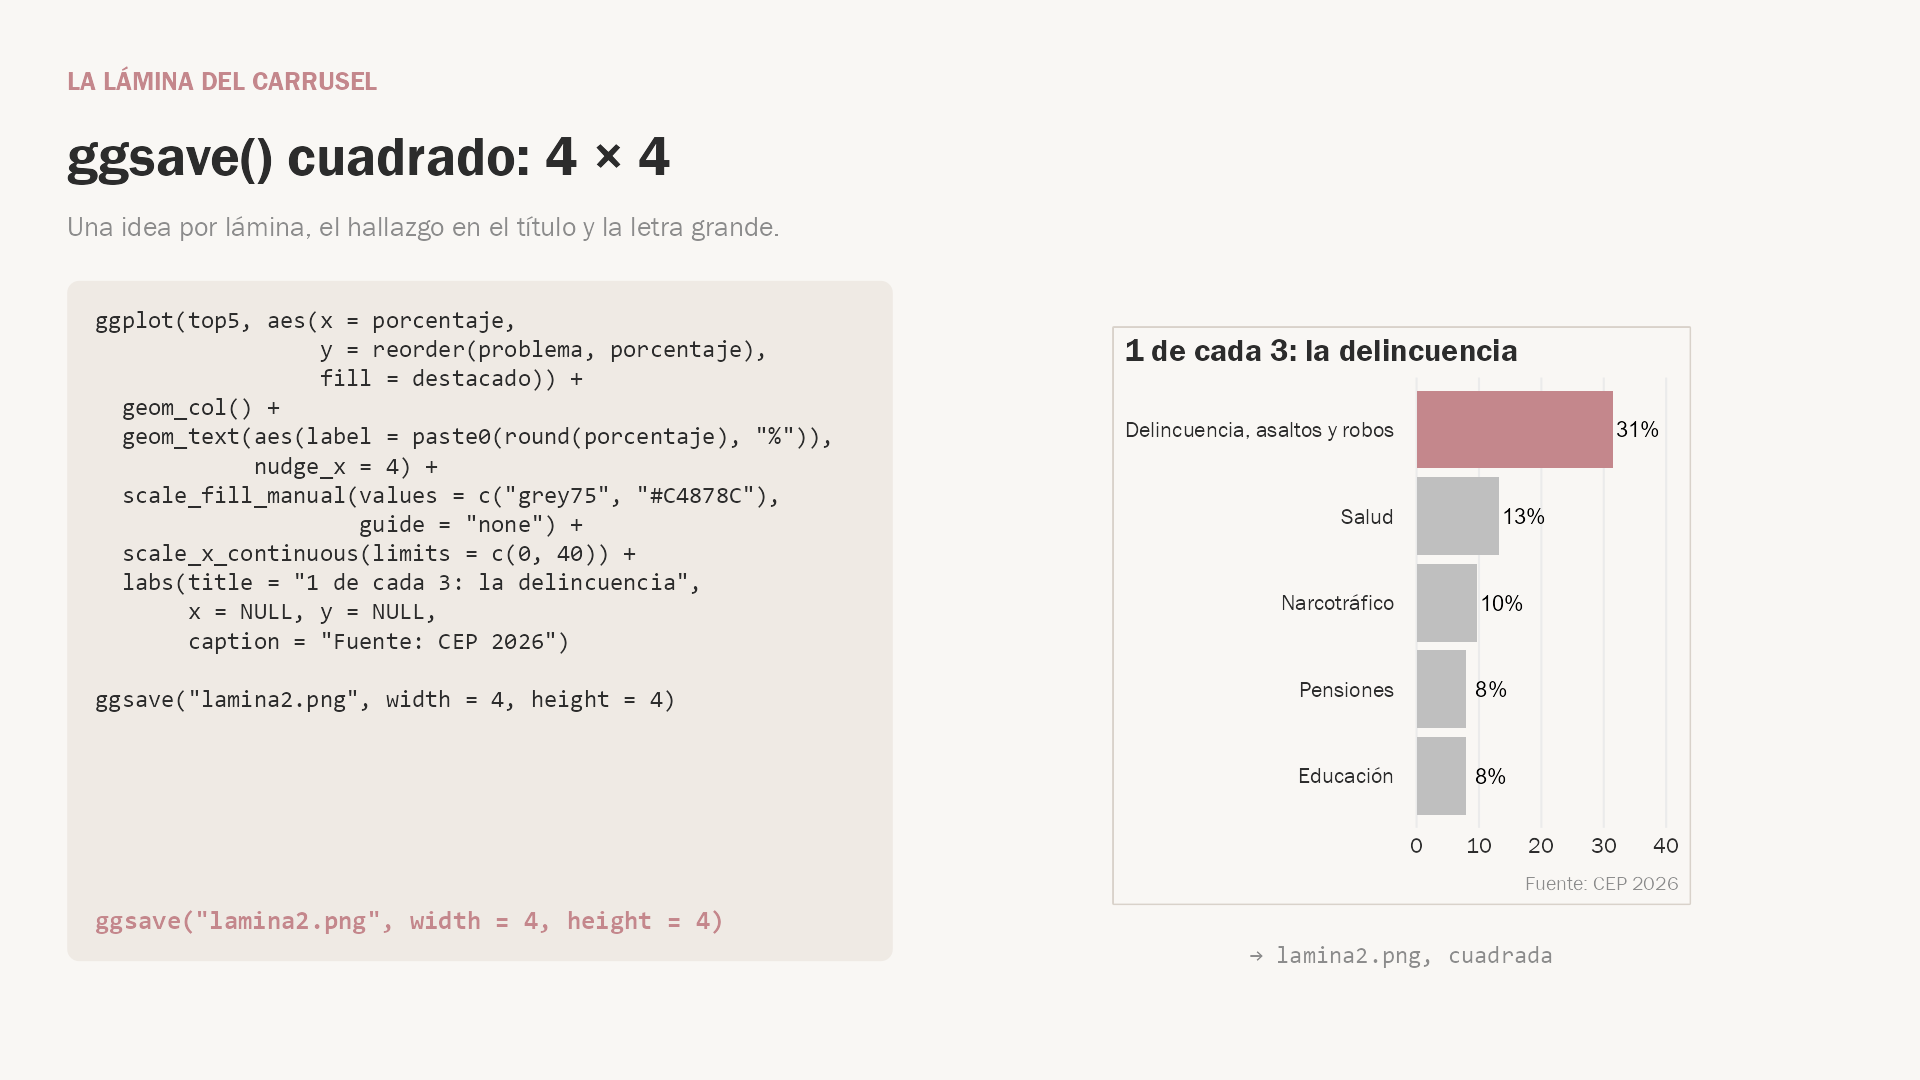
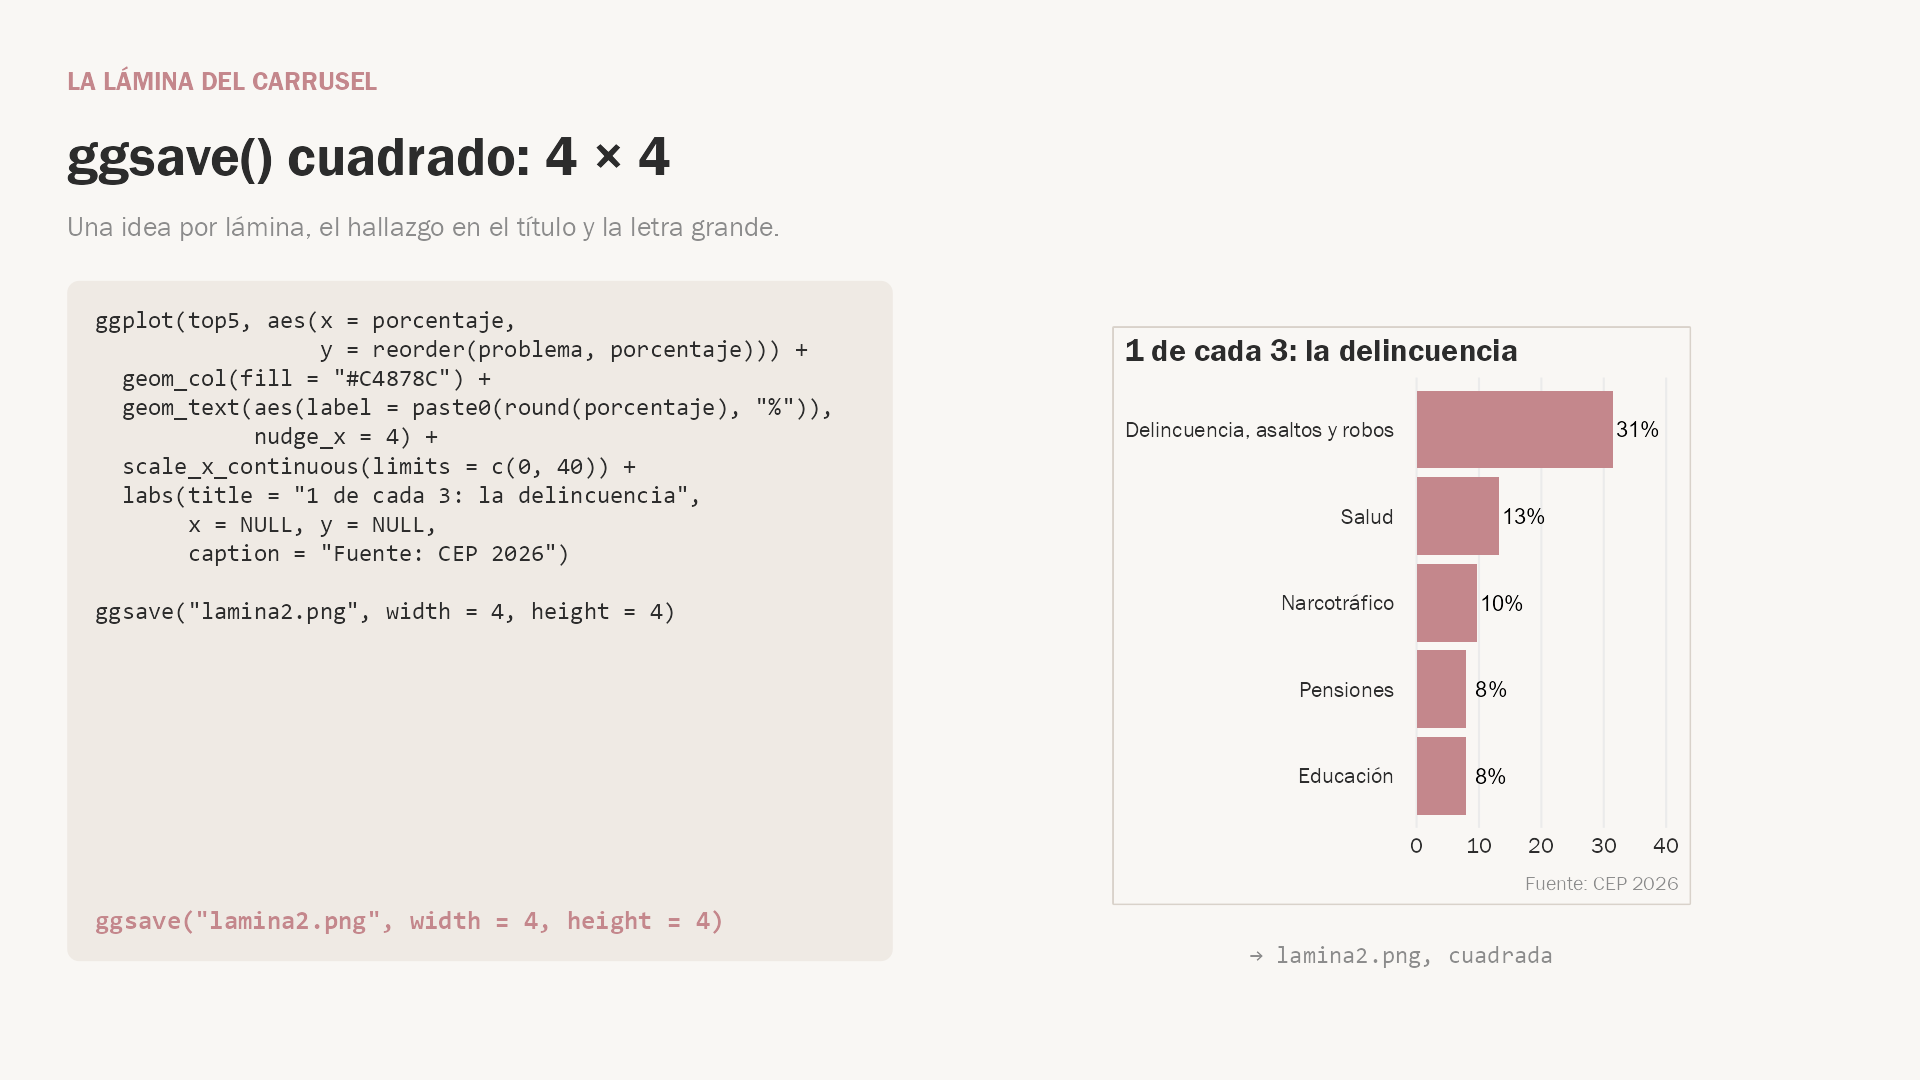
DVD 2026 clase 14: sale scale_fill_manual() y la barra destacada; las barras van en rosa con geom_col(fill = )

diff --git a/materiales/2026_descripcion_visualizacion_datos/clase14_hoja_de_ruta.html b/materiales/2026_descripcion_visualizacion_datos/clase14_hoja_de_ruta.html
@@ -134,7 +134,7 @@
     <div class="hora">10:15–10:28</div>
     <div>
       <h2>El carrusel y su código: <code>slice_max()</code>, <code>geom_text()</code> y la lámina cuadrada</h2>
-      <p class="laminas">Láminas 5–11</p>
+      <p class="laminas">Láminas 5–10</p>
       <p>Partir con el ejemplo de la CEP: esto es lo que hacen hoy. Correr el cuaderno, bajar <code>lamina2.png</code> desde la carpeta de Colab y mostrar cómo se configura un Slides cuadrado (Archivo → Configurar página → Personalizado, 20 × 20 cm).</p>
       <div class="botones">
         <a href="https://colab.research.google.com/github/naimbro/naimbro.github.io/blob/main/materiales/2026_descripcion_visualizacion_datos/clase14_carrusel.ipynb" target="_blank">Cuaderno</a>
@@ -146,7 +146,7 @@
     <div class="hora">10:28–10:35</div>
     <div>
       <h2>El encargo: la carta de la ONG y la secuencia</h2>
-      <p class="laminas">Láminas 12–13</p>
+      <p class="laminas">Láminas 11–12</p>
       <p>Cada grupo lee su carta y ordena sus candidatos: portada con el gancho, cuatro láminas, una de cierre.</p>
       <div class="botones">
         <a href="clase14_cartas_ong.html" target="_blank">Cartas</a>
@@ -158,7 +158,7 @@
     <div class="hora">10:35–11:20</div>
     <div>
       <h2>Construyen el carrusel; el algoritmo mira</h2>
-      <p class="laminas">Láminas 14–16 · dejar proyectada la 16, la de los QR</p>
+      <p class="laminas">Láminas 13–15 · dejar proyectada la 15, la de los QR</p>
       <p>Seis láminas cuadradas en Google Slides. Cada ayudante pasa el carrusel de sus grupos como en el celular, hacia las 10:55 y otra vez hacia las 11:10, y les dice en qué lámina dejaría de mirar: Matías G02, G03 y G07 · Karina G04, G05 y G09 · Martín G01, G06 y G08.</p>
       <div class="botones">
         <a href="clase14_cartas_ong.html" target="_blank">Cartas</a>
@@ -194,7 +194,7 @@
     <div class="hora">11:30–11:45</div>
     <div>
       <h2>La prueba del scroll</h2>
-      <p class="laminas">Láminas 17–18 · dejar la 18 hasta que todos tengan el form abierto</p>
+      <p class="laminas">Láminas 16–17 · dejar la 17 hasta que todos tengan el form abierto</p>
       <p>Abrir cada carrusel en orden, de G01 a G09, en modo presentación, y avanzar una lámina cada tres segundos; un ayudante cronometra. Después, 20 segundos para marcar cuál de las tres frases dice. En el carrusel del propio grupo no se marca nada. Al terminar el último: «Aprieten Enviar ahora».</p>
       <div class="botones">
         <a href="https://docs.google.com/forms/d/1_sTzm1Dt5QSQUwvhsnvGYqP4chCwfPY5uMwN_v-Nl0Q/edit#responses" target="_blank">Respuestas del corte</a>
@@ -218,7 +218,7 @@
     <div class="hora">12:30–12:38</div>
     <div>
       <h2>Podio del carrusel y eligen su formato</h2>
-      <p class="laminas">Láminas 19–20</p>
+      <p class="laminas">Láminas 18–19</p>
       <p>Anunciar el podio de la prueba: gana el porcentaje más alto de aciertos; los tres primeros (y los empatados con el tercero) suman una décima al Sprint 4. Luego cada grupo, con su ayudante al lado, envía su formato para el 23: observatorio, video-podcast o carrusel. Revisar que estén los nueve: <code>python create_form_dvd_clase14.py --formatos</code>.</p>
       <div class="botones">
         <a href="https://docs.google.com/forms/d/1cRTc_mlhzA_6feaMzVql2lqKFPp-FrozXRnvI2_gL-A/edit#responses" target="_blank">Respuestas del formato</a>
@@ -231,7 +231,7 @@
     <div class="hora">12:38–12:40</div>
     <div>
       <h2>Cierre: lo que hay que entregar</h2>
-      <p class="laminas">Láminas 21–22</p>
+      <p class="laminas">Láminas 20–21</p>
       <p>El sitio, antes de las 10:00 del 23, en Webcursos y a Matías. Bitácora: semana 9, hasta el domingo 22.</p>
     </div>
   </div>
